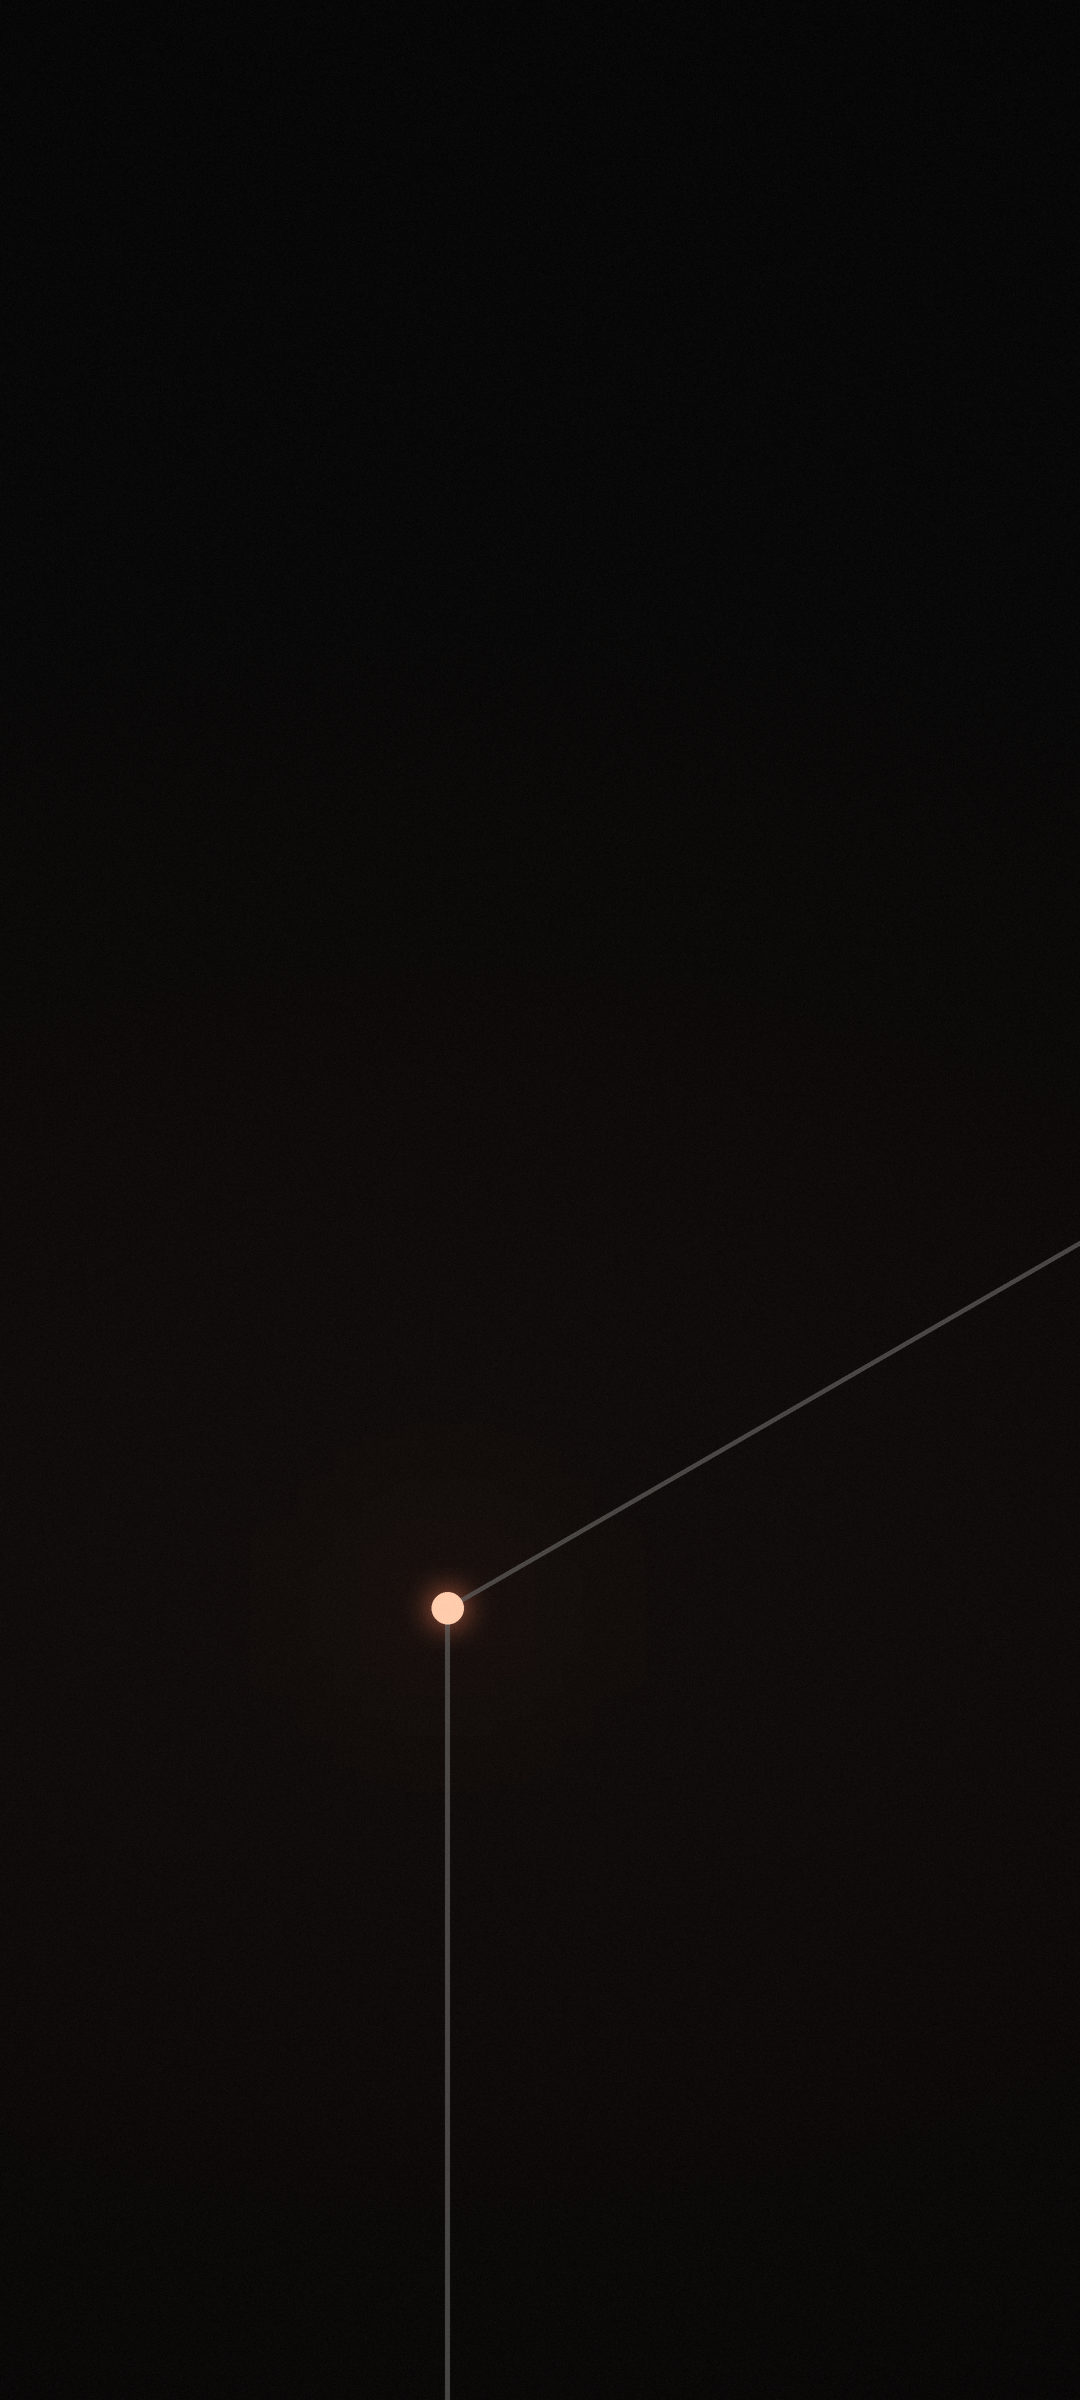
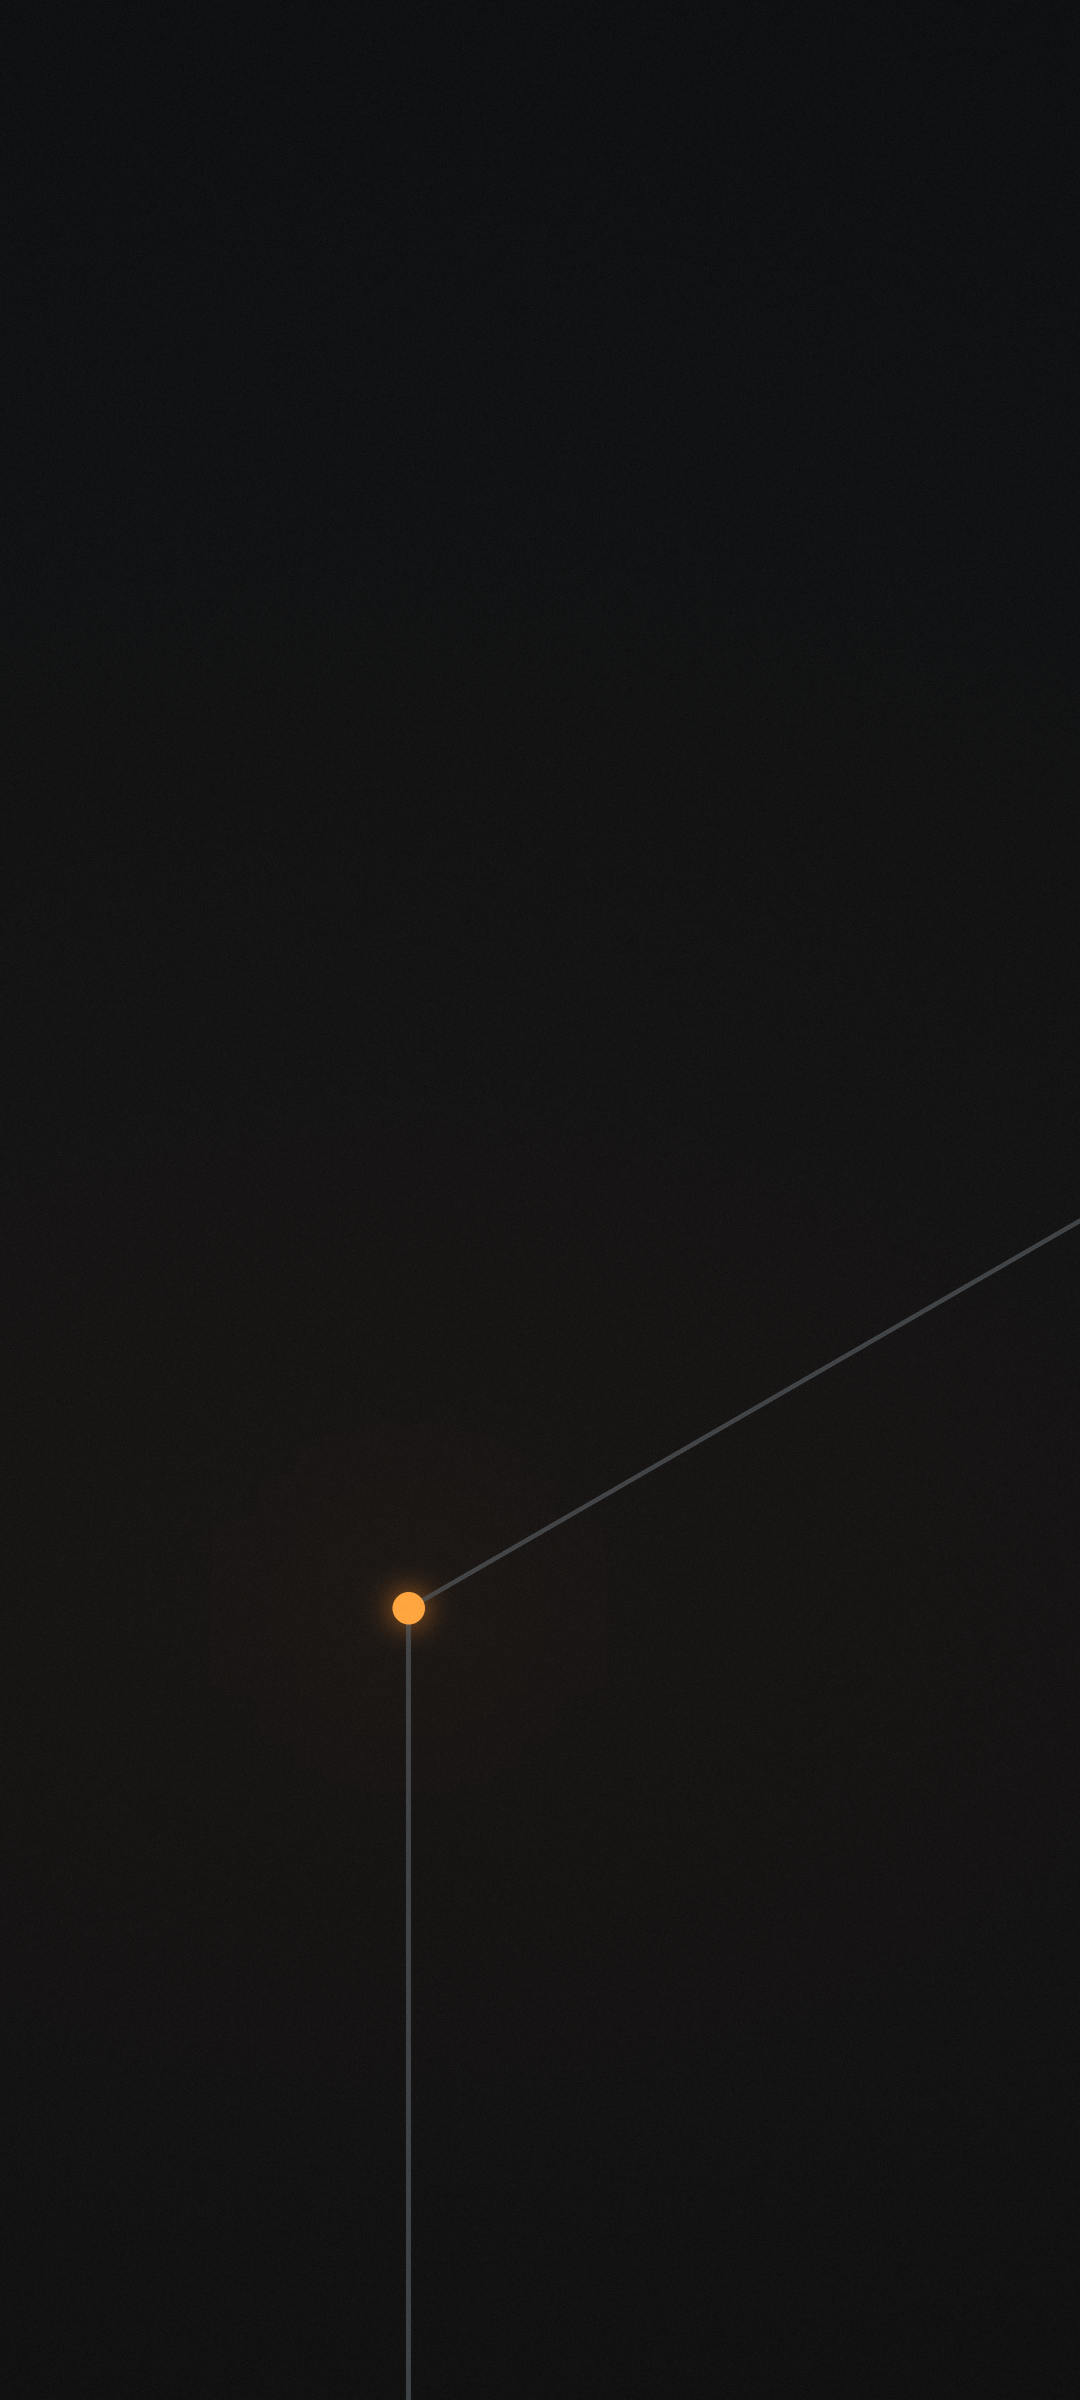
Sync Carbon's vivid orange rework
Palette (#ff861a on #151719), the seven redrawn backgrounds and their
phone crops, the archive and its description.

diff --git a/themes/carbon.md b/themes/carbon.md
@@ -1,3 +1,3 @@
-Carbon (Lookiyam) is a dark, minimal theme built around a glowing coal. Neutral charcoal toolbars sit above an even darker tab bar, with warm off-white text that is easy on the eyes. A single ember-orange highlight marks focus and selection, and the Start Page shows one hexagon with a glowing corner, like a carbon atom.
+Carbon (Lookiyam) is a dark, minimal theme built around one hot point of light. Steel-grey toolbars sit above an even darker tab bar, with cool off-white text that is easy on the eyes. A single vivid orange highlight marks focus and selection, and the Start Page shows one steel hexagon with a glowing corner, like a carbon atom.
 
 Part of the Lookiyam themes, made to match the Carbon theme for the Omarchy Linux desktop. All backgrounds and the build script are at https://github.com/lookiyam-94/vivaldi-lookiyam-themes
